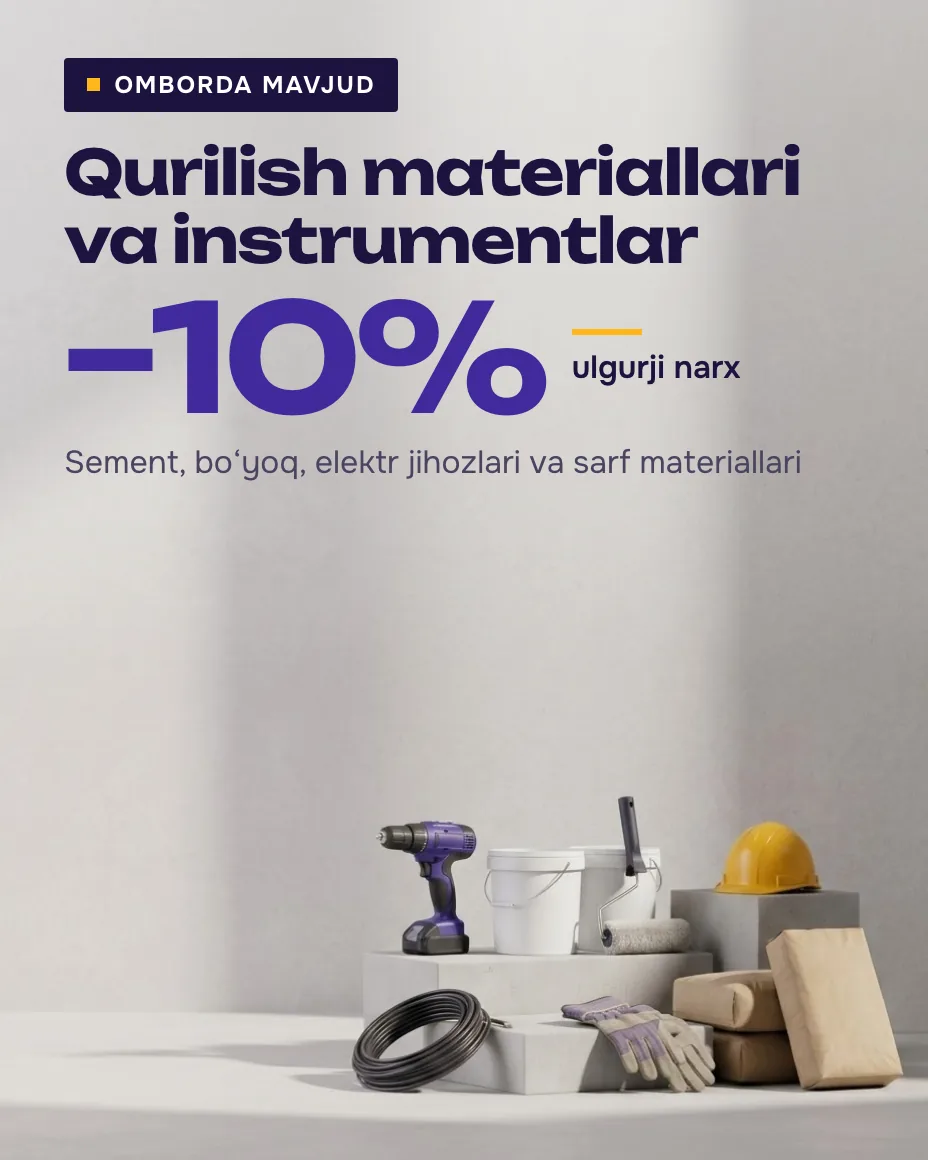
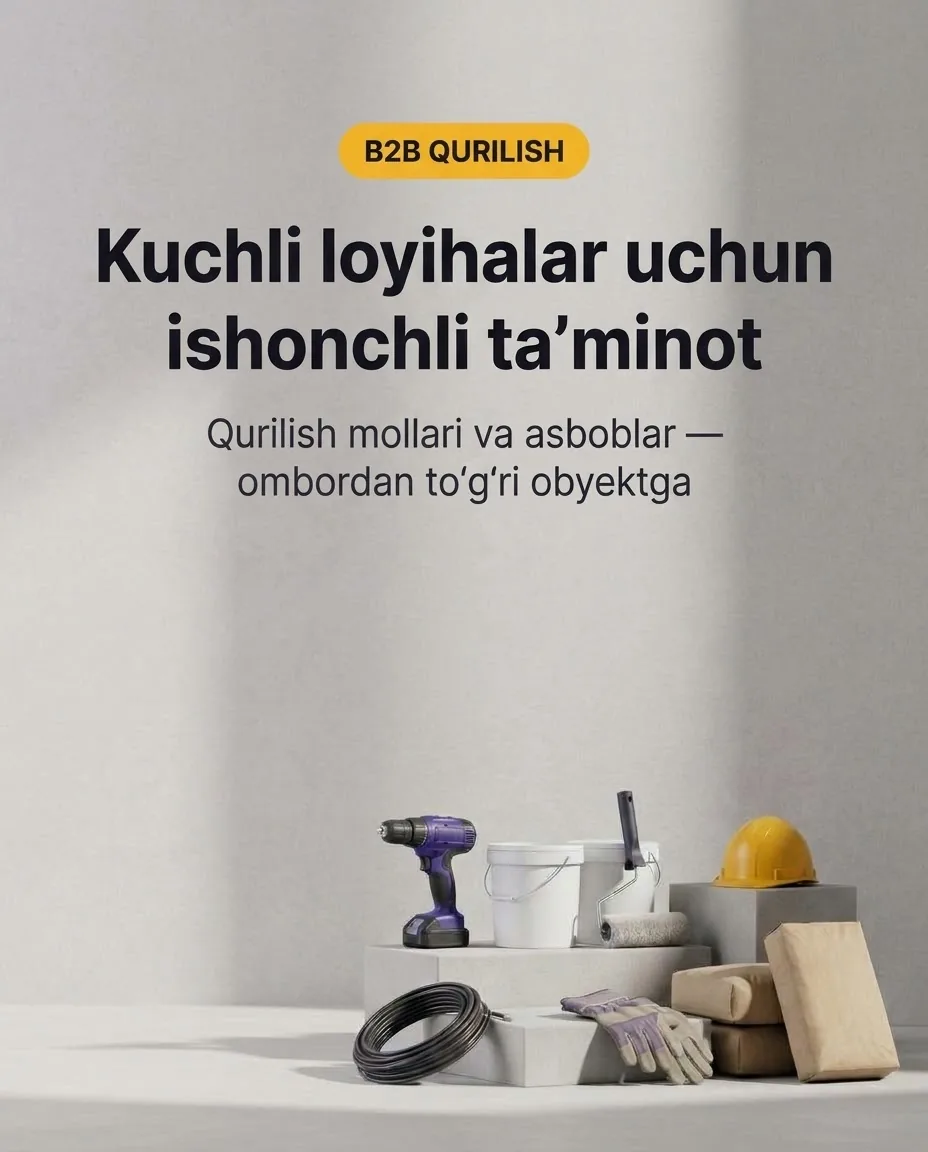
Yangi UZ bannerlar joylandi, Yangi yil slaydiga hilpiraydigan lenta qo'shildi

diff --git a/index.html b/index.html
@@ -640,6 +640,8 @@ header.hd{box-shadow:0 1px 0 var(--border-subtle)}
 .promo-cta{position:absolute;left:5.6%;bottom:13.4%;display:inline-flex;align-items:center;padding:.72em 1.3em;border-radius:12px;background:#FFB71B;color:#161324;font-weight:700;font-size:clamp(13px,1.5cqw,19px);line-height:1.2;text-decoration:none;box-shadow:0 8px 20px -8px rgba(0,0,0,.45);transition:transform .2s,box-shadow .2s,background .2s}
 .promo-cta:hover{background:#FFC444;transform:translateY(-2px);box-shadow:0 12px 24px -10px rgba(0,0,0,.55)}
 .promo-cta:focus-visible{outline:3px solid #fff;outline-offset:2px}
+/* Yangi yil slaydi: rasm ustida hilpiraydigan lenta (SVG, SMIL). Ruscha rasmda o'z yozuvi bor, shuning uchun faqat UZ da */
+.ny-ribbon{position:absolute;inset:0;width:100%;height:100%;pointer-events:none}.ny-ribbon.m{display:none}.ny-ribbon text{font-family:var(--f-display);font-weight:700;letter-spacing:2px;fill:#1C1340}html[lang="ru"] .ny-ribbon{display:none!important}
 .ps-arrow{position:absolute;top:50%;z-index:2;width:46px;height:46px;margin-top:-23px;border:0;border-radius:50%;display:grid;place-items:center;background:rgba(255,255,255,.92);color:#161324;box-shadow:0 6px 18px -6px rgba(22,19,36,.35);cursor:pointer;transition:transform .2s,background .2s}
 .ps-arrow svg{width:20px;height:20px;fill:none;stroke:currentColor;stroke-width:2.4;stroke-linecap:round;stroke-linejoin:round}
 .ps-arrow.prev{left:16px}.ps-arrow.next{right:16px}
@@ -650,7 +652,7 @@ header.hd{box-shadow:0 1px 0 var(--border-subtle)}
 .ps-dots button[aria-current="true"]{width:22px;background:#412A9D}
 @media (hover:none){.ps-arrow{display:none}}
 @media (max-width:980px){.hh{gap:26px}.hh-l{display:block}.hh .ctas{margin-top:24px;justify-content:flex-start}.hh-points{justify-content:flex-start}}
-@media (max-width:640px){.hx-hero{padding:16px 0 16px}.promo-slider{aspect-ratio:4/5}.promo-cta{left:var(--ml,14.5%);top:var(--mt,47%);bottom:auto;padding:7px 13px;font-size:12.5px;border-radius:10px}.hh .ctas .btn{flex:1 1 100%}}
+@media (max-width:640px){.hx-hero{padding:16px 0 16px}.promo-slider{aspect-ratio:4/5}.promo-cta{left:var(--ml,0);right:var(--mr,0);top:var(--mt,47%);bottom:auto;width:max-content;margin-inline:auto;padding:7px 13px;font-size:12.5px;border-radius:10px}html[lang="ru"] .promo-cta{left:6.9%;right:auto;margin:0;top:48.6%}html[lang="ru"] .ps-slide[data-n="3"] .promo-cta{top:44.8%}.ny-ribbon.d{display:none}.ny-ribbon.m{display:block}.hh .ctas .btn{flex:1 1 100%}}
 
 /* ---------- Hamkorlar va KPI ---------- */
 .proof{padding:24px 0 56px}
@@ -960,20 +962,22 @@ input[type=file]::file-selector-button{font-family:var(--f-body);font-weight:700
       <div class="hh-r">
         <div class="promo-slider" id="promo" aria-roledescription="carousel" aria-label="Aksiyalar" data-i18n-aria="ps_label">
           <div class="ps-track">
-          <div class="ps-slide" data-n="4" role="group" aria-roledescription="slide" style="--mt:48.6%;--ml:6.9%">
-            <picture><source media="(max-width:640px)" srcset="img/promo-4-uz-m.webp" width="928" height="1160"><img src="img/promo-4-uz.webp" alt="Yangi yil aksiyasi: barcha mahsulotlarga -10%, butun katalogga." width="1568" height="672" draggable="false" fetchpriority="high"></picture>
+          <div class="ps-slide" data-n="4" role="group" aria-roledescription="slide" style="--mt:38.5%;--ml:9.9%;--mr:auto">
+            <picture><source media="(max-width:640px)" srcset="img/promo-4-uz-m.webp" width="928" height="1152"><img src="img/promo-4-uz.webp" alt="Yangi yilni yangi zaxira bilan boshlang: barcha mahsulotlarga 10% chegirma." width="1584" height="672" draggable="false" fetchpriority="high"></picture>
+            <svg class="ny-ribbon d" viewBox="0 0 1584 672" preserveAspectRatio="xMidYMid slice" aria-hidden="true"><path d="M-60 58 C 220 18, 440 104, 760 56 S 1240 16, 1644 70" transform="translate(0 7)" fill="none" stroke="#A8740A" stroke-width="54" opacity=".6"><animate attributeName="d" dur="6s" repeatCount="indefinite" calcMode="spline" keySplines=".45 0 .55 1;.45 0 .55 1" values="M-60 58 C 220 18, 440 104, 760 56 S 1240 16, 1644 70;M-60 48 C 220 100, 440 20, 760 66 S 1240 104, 1644 50;M-60 58 C 220 18, 440 104, 760 56 S 1240 16, 1644 70"/></path><path id="nyr-d" d="M-60 58 C 220 18, 440 104, 760 56 S 1240 16, 1644 70" fill="none" stroke="#FFB71B" stroke-width="54"><animate attributeName="d" dur="6s" repeatCount="indefinite" calcMode="spline" keySplines=".45 0 .55 1;.45 0 .55 1" values="M-60 58 C 220 18, 440 104, 760 56 S 1240 16, 1644 70;M-60 48 C 220 100, 440 20, 760 66 S 1240 104, 1644 50;M-60 58 C 220 18, 440 104, 760 56 S 1240 16, 1644 70"/></path><text font-size="24" dominant-baseline="central"><textPath href="#nyr-d">YANGI YIL AKSIYASI • YANGI YIL AKSIYASI • YANGI YIL AKSIYASI • YANGI YIL AKSIYASI • YANGI YIL AKSIYASI • YANGI YIL AKSIYASI • YANGI YIL AKSIYASI •</textPath></text></svg>
+            <svg class="ny-ribbon m" viewBox="0 0 928 1152" preserveAspectRatio="xMidYMid slice" aria-hidden="true"><path d="M-50 62 C 140 30, 300 100, 480 58 S 760 26, 980 70" transform="translate(0 7)" fill="none" stroke="#A8740A" stroke-width="64" opacity=".6"><animate attributeName="d" dur="6s" repeatCount="indefinite" calcMode="spline" keySplines=".45 0 .55 1;.45 0 .55 1" values="M-50 62 C 140 30, 300 100, 480 58 S 760 26, 980 70;M-50 52 C 140 96, 300 28, 480 68 S 760 100, 980 50;M-50 62 C 140 30, 300 100, 480 58 S 760 26, 980 70"/></path><path id="nyr-m" d="M-50 62 C 140 30, 300 100, 480 58 S 760 26, 980 70" fill="none" stroke="#FFB71B" stroke-width="64"><animate attributeName="d" dur="6s" repeatCount="indefinite" calcMode="spline" keySplines=".45 0 .55 1;.45 0 .55 1" values="M-50 62 C 140 30, 300 100, 480 58 S 760 26, 980 70;M-50 52 C 140 96, 300 28, 480 68 S 760 100, 980 50;M-50 62 C 140 30, 300 100, 480 58 S 760 26, 980 70"/></path><text font-size="30" dominant-baseline="central"><textPath href="#nyr-m">YANGI YIL AKSIYASI • YANGI YIL AKSIYASI • YANGI YIL AKSIYASI • YANGI YIL AKSIYASI •</textPath></text></svg>
             <a class="promo-cta" href="#catalog" data-dir="all" data-i18n="promo_cta">Tovarlarni ko'rish →</a>
           </div>
-          <div class="ps-slide" data-n="1" role="group" aria-roledescription="slide" style="--mt:48.6%;--ml:6.9%">
-            <picture><source media="(max-width:640px)" srcset="img/promo-1-uz-m.webp" width="928" height="1160"><img src="img/promo-1-uz.webp" alt="Maishiy kimyo va xo'jalik mollari: -12%, maxsus narx. Oy xiti." width="1568" height="672" draggable="false" decoding="async"></picture>
+          <div class="ps-slide" data-n="1" role="group" aria-roledescription="slide" style="--mt:45.5%;--ml:0;--mr:0">
+            <picture><source media="(max-width:640px)" srcset="img/promo-1-uz-m.webp" width="928" height="1152"><img src="img/promo-1-uz.webp" alt="Ulgurji ta'minot: mukammal tozalik, ulgurji narxlarda. Ofis va biznesingiz uchun maishiy kimyo bir manbadan." width="1584" height="672" draggable="false" decoding="async"></picture>
             <a class="promo-cta" href="#catalog" data-dir="chem" data-i18n="promo_cta">Tovarlarni ko'rish →</a>
           </div>
-          <div class="ps-slide" data-n="2" role="group" aria-roledescription="slide" style="--mt:48.6%;--ml:6.9%">
-            <picture><source media="(max-width:640px)" srcset="img/promo-2-uz-m.webp" width="928" height="1160"><img src="img/promo-2-uz.webp" alt="Qurilish materiallari va instrumentlar: -10%, ulgurji narx. Omborda mavjud." width="1568" height="672" draggable="false" decoding="async"></picture>
+          <div class="ps-slide" data-n="2" role="group" aria-roledescription="slide" style="--mt:46%;--ml:0;--mr:0">
+            <picture><source media="(max-width:640px)" srcset="img/promo-2-uz-m.webp" width="928" height="1152"><img src="img/promo-2-uz.webp" alt="B2B qurilish: kuchli loyihalar uchun ishonchli ta'minot. Qurilish mollari va asboblar ombordan to'g'ri obyektga." width="1584" height="672" draggable="false" decoding="async"></picture>
             <a class="promo-cta" href="#catalog" data-dir="tools" data-i18n="promo_cta">Tovarlarni ko'rish →</a>
           </div>
-          <div class="ps-slide" data-n="3" role="group" aria-roledescription="slide" style="--mt:44.8%;--ml:6.9%">
-            <picture><source media="(max-width:640px)" srcset="img/promo-3-uz-m.webp" width="928" height="1160"><img src="img/promo-3-uz.webp" alt="Toshkent bo'ylab yetkazib berish: 24 soat ichida, bepul. QQS 12%, UzRTSB birja." width="1568" height="672" draggable="false" decoding="async"></picture>
+          <div class="ps-slide" data-n="3" role="group" aria-roledescription="slide" style="--mt:42.5%;--ml:0;--mr:0">
+            <picture><source media="(max-width:640px)" srcset="img/promo-3-uz-m.webp" width="928" height="1152"><img src="img/promo-3-uz.webp" alt="QQS 12%, birja: bugun buyurtma, 24 soatda eshikda. Bepul yetkazib berish va to'liq rasmiy hujjatlar." width="1584" height="672" draggable="false" decoding="async"></picture>
             <a class="promo-cta" href="#request" data-i18n="promo_cta3">Buyurtma berish →</a>
           </div>
           </div>
@@ -1410,7 +1414,7 @@ toast:"Добавлено в список",theme_dark:"Тёмная тема",th
 };
 
 /* ---------- redizayn matnlari ---------- */
-Object.assign(T.uz, {"nav_terms": "B2B shartlar", "price_btn": "Prays-list (XLSX)", "list": "Smeta", "list_sub": "tanlangan pozitsiyalar", "hero_badge": "QQS (NDS) • UzRTSB Birja • G'aznachilik", "hero_h1": "Korxonalar va qurilish obyektlari uchun kompleks ulgurji ta'minot", "hero_p": "1000+ nomdagi qurilish, maishiy kimyo va xo'jalik mollarini bitta shartnoma va bitta reys bilan yetkazib beramiz.", "hero_cta1": "Tijorat taklifi olish", "hero_cta2": "Katalogni ko'rish", "proof_eyebrow": "Bizga ishonishadi", "proof_title": "Yirik korxonalar ta'minotchisi", "proof_note": "Sanoat, qurilish, savdo va sport obyektlarini ta'minlaymiz.", "kpi1_t": "yil tajriba", "kpi2_t": "korxona mijozlarimiz", "kpi3_t": "SKU assortimentda", "kpi4_n": "24 soat", "kpi4_t": "ichida yetkazib berish", "view_cards": "Kartochkalar", "view_table": "B2B jadval", "th_sku": "Artikul", "th_name": "Mahsulot nomi", "th_unit": "O'lchov birligi", "th_price": "Ulgurji narx (QQS bilan)", "th_qty": "Miqdor", "price_cell": "Tijorat taklifida", "add": "+ Smetaga qo'shish", "added": "Smetada", "add_short": "+ Qo'shish", "added_short": "Qo'shildi", "toast": "Smetaga qo'shildi", "dr_empty": "Smeta hozircha bo'sh. Katalogdan pozitsiyalarni qo'shing.", "dr_sum": "Jami: {p} pozitsiya, {q} birlik", "dr_note": "Narxlar tijorat taklifida ko'rsatiladi", "go_request": "Menejerga yuborish", "sm_eyebrow": "Smeta bo'yicha hisob", "sm_h": "Smetangiz bormi? Vaqtingizni tejang: 30 daqiqada hisoblab beramiz.", "sm_p": "Faylni yuklang va telefon raqamingizni qoldiring. Menejer tijorat taklifini tayyorlab, siz bilan bog'lanadi.", "sm_drop": "Faylni shu yerga tashlang yoki", "sm_pick": "kompyuterdan tanlang", "sm_types": ".xlsx, .xls, .pdf, .docx, 10 MB gacha", "sm_phone": "Telefon raqamingiz", "sm_btn": "Tijorat taklifi olish", "sm_err_file": "Fayl tanlang: .xlsx, .xls, .pdf yoki .docx, 10 MB gacha", "sm_ok": "Rahmat! Smeta qabul qilindi, menejer tez orada siz bilan bog'lanadi.", "sm_fail": "Yuborib bo'lmadi. Iltimos, qo'ng'iroq qiling: +998 78 120 12 00", "how_eyebrow": "Ish tartibi", "how_title": "Shaffof ish jarayoni: 4 qadam", "how1_h": "Ariza yoki smeta", "how1_p": "Katalogdan smeta tuzing yoki tayyor smetangizni yuklang.", "how2_h": "30 daqiqada hisob-kitob", "how2_p": "Menejer tijorat taklifini tayyorlab yuboradi.", "how3_h": "Shartnoma va QQS hisob-faktura", "how3_p": "Shartnoma tuziladi, to'lov pul o'tkazish yo'li bilan amalga oshiriladi.", "how4_h": "Obyektga tezkor yetkazib berish", "how4_p": "Mahsulot obyektingizga to'liq hujjatlar bilan yetkaziladi.", "addr": "Toshkent, Chilonzor tumani, Lutfiy ko'chasi 6, 2-qavat", "xlsx_title": "SPEKTR STROY INVEST: prays-list", "xlsx_dir": "Yo'nalish", "xlsx_spec": "Tavsif", "promo_cta": "Tovarlarni ko'rish →", "promo_cta3": "Buyurtma berish →", "promo1_alt": "Maishiy kimyo va xo'jalik mollari: -12%, maxsus narx. Oy xiti.", "promo4_alt": "Yangi yil aksiyasi: barcha mahsulotlarga -10%, butun katalogga.", "promo2_alt": "Qurilish materiallari va instrumentlar: -10%, ulgurji narx. Omborda mavjud.", "promo3_alt": "Toshkent bo'ylab yetkazib berish: 24 soat ichida, bepul. QQS 12%, UzRTSB birja.", "ps_label": "Aksiyalar", "ps_prev": "Oldingi slayd", "ps_next": "Keyingi slayd", "ps_go": "{n}-slayd", "tg_open": "Telegramda yozish", "hand_cta": "30 daqiqada hisoblaymiz!", "hand_partners": "va yana 5 000+ korxona", "hand_smeta": "Excel, PDF yoki Word: farqi yo'q!", "open_now": "Hozir ish vaqti: qo'ng'iroq qiling", "closed_now": "Hozir ish vaqti emas: ariza qoldiring", "rq_next": "Ariza yuborganingizdan keyin", "rq_s1_h": "30 daqiqada tijorat taklifi", "rq_s1_p": "Menejer pozitsiyalarni hisoblab, narxlar bilan taklif yuboradi.", "rq_s2_h": "Shartnoma va QQS hisob-faktura", "rq_s2_p": "To'lov faqat pul o'tkazish yo'li bilan, shartnoma asosida.", "rq_s3_h": "24 soatda yetkazib berish", "rq_s3_p": "Mahsulot obyektingizga to'liq hujjatlar bilan yetkaziladi.", "rq_call_h": "Shoshilinch buyurtmami?", "rq_call_p": "Menejerga to'g'ridan-to'g'ri qo'ng'iroq qiling", "rq_b1": "QQS (NDS)", "rq_b2": "UzRTSB birja", "rq_b3": "G'aznachilik"});
+Object.assign(T.uz, {"nav_terms": "B2B shartlar", "price_btn": "Prays-list (XLSX)", "list": "Smeta", "list_sub": "tanlangan pozitsiyalar", "hero_badge": "QQS (NDS) • UzRTSB Birja • G'aznachilik", "hero_h1": "Korxonalar va qurilish obyektlari uchun kompleks ulgurji ta'minot", "hero_p": "1000+ nomdagi qurilish, maishiy kimyo va xo'jalik mollarini bitta shartnoma va bitta reys bilan yetkazib beramiz.", "hero_cta1": "Tijorat taklifi olish", "hero_cta2": "Katalogni ko'rish", "proof_eyebrow": "Bizga ishonishadi", "proof_title": "Yirik korxonalar ta'minotchisi", "proof_note": "Sanoat, qurilish, savdo va sport obyektlarini ta'minlaymiz.", "kpi1_t": "yil tajriba", "kpi2_t": "korxona mijozlarimiz", "kpi3_t": "SKU assortimentda", "kpi4_n": "24 soat", "kpi4_t": "ichida yetkazib berish", "view_cards": "Kartochkalar", "view_table": "B2B jadval", "th_sku": "Artikul", "th_name": "Mahsulot nomi", "th_unit": "O'lchov birligi", "th_price": "Ulgurji narx (QQS bilan)", "th_qty": "Miqdor", "price_cell": "Tijorat taklifida", "add": "+ Smetaga qo'shish", "added": "Smetada", "add_short": "+ Qo'shish", "added_short": "Qo'shildi", "toast": "Smetaga qo'shildi", "dr_empty": "Smeta hozircha bo'sh. Katalogdan pozitsiyalarni qo'shing.", "dr_sum": "Jami: {p} pozitsiya, {q} birlik", "dr_note": "Narxlar tijorat taklifida ko'rsatiladi", "go_request": "Menejerga yuborish", "sm_eyebrow": "Smeta bo'yicha hisob", "sm_h": "Smetangiz bormi? Vaqtingizni tejang: 30 daqiqada hisoblab beramiz.", "sm_p": "Faylni yuklang va telefon raqamingizni qoldiring. Menejer tijorat taklifini tayyorlab, siz bilan bog'lanadi.", "sm_drop": "Faylni shu yerga tashlang yoki", "sm_pick": "kompyuterdan tanlang", "sm_types": ".xlsx, .xls, .pdf, .docx, 10 MB gacha", "sm_phone": "Telefon raqamingiz", "sm_btn": "Tijorat taklifi olish", "sm_err_file": "Fayl tanlang: .xlsx, .xls, .pdf yoki .docx, 10 MB gacha", "sm_ok": "Rahmat! Smeta qabul qilindi, menejer tez orada siz bilan bog'lanadi.", "sm_fail": "Yuborib bo'lmadi. Iltimos, qo'ng'iroq qiling: +998 78 120 12 00", "how_eyebrow": "Ish tartibi", "how_title": "Shaffof ish jarayoni: 4 qadam", "how1_h": "Ariza yoki smeta", "how1_p": "Katalogdan smeta tuzing yoki tayyor smetangizni yuklang.", "how2_h": "30 daqiqada hisob-kitob", "how2_p": "Menejer tijorat taklifini tayyorlab yuboradi.", "how3_h": "Shartnoma va QQS hisob-faktura", "how3_p": "Shartnoma tuziladi, to'lov pul o'tkazish yo'li bilan amalga oshiriladi.", "how4_h": "Obyektga tezkor yetkazib berish", "how4_p": "Mahsulot obyektingizga to'liq hujjatlar bilan yetkaziladi.", "addr": "Toshkent, Chilonzor tumani, Lutfiy ko'chasi 6, 2-qavat", "xlsx_title": "SPEKTR STROY INVEST: prays-list", "xlsx_dir": "Yo'nalish", "xlsx_spec": "Tavsif", "promo_cta": "Tovarlarni ko'rish →", "promo_cta3": "Buyurtma berish →", "promo1_alt": "Ulgurji ta'minot: mukammal tozalik, ulgurji narxlarda. Ofis va biznesingiz uchun maishiy kimyo bir manbadan.", "promo4_alt": "Yangi yilni yangi zaxira bilan boshlang: barcha mahsulotlarga 10% chegirma.", "promo2_alt": "B2B qurilish: kuchli loyihalar uchun ishonchli ta'minot. Qurilish mollari va asboblar ombordan to'g'ri obyektga.", "promo3_alt": "QQS 12%, birja: bugun buyurtma, 24 soatda eshikda. Bepul yetkazib berish va to'liq rasmiy hujjatlar.", "ps_label": "Aksiyalar", "ps_prev": "Oldingi slayd", "ps_next": "Keyingi slayd", "ps_go": "{n}-slayd", "tg_open": "Telegramda yozish", "hand_cta": "30 daqiqada hisoblaymiz!", "hand_partners": "va yana 5 000+ korxona", "hand_smeta": "Excel, PDF yoki Word: farqi yo'q!", "open_now": "Hozir ish vaqti: qo'ng'iroq qiling", "closed_now": "Hozir ish vaqti emas: ariza qoldiring", "rq_next": "Ariza yuborganingizdan keyin", "rq_s1_h": "30 daqiqada tijorat taklifi", "rq_s1_p": "Menejer pozitsiyalarni hisoblab, narxlar bilan taklif yuboradi.", "rq_s2_h": "Shartnoma va QQS hisob-faktura", "rq_s2_p": "To'lov faqat pul o'tkazish yo'li bilan, shartnoma asosida.", "rq_s3_h": "24 soatda yetkazib berish", "rq_s3_p": "Mahsulot obyektingizga to'liq hujjatlar bilan yetkaziladi.", "rq_call_h": "Shoshilinch buyurtmami?", "rq_call_p": "Menejerga to'g'ridan-to'g'ri qo'ng'iroq qiling", "rq_b1": "QQS (NDS)", "rq_b2": "UzRTSB birja", "rq_b3": "G'aznachilik"});
 Object.assign(T.ru, {"nav_terms": "B2B условия", "price_btn": "Прайс-лист (XLSX)", "list": "Смета", "list_sub": "выбранные позиции", "hero_badge": "НДС • Биржа UzRTSB • Казначейство", "hero_h1": "Комплексные оптовые поставки для предприятий и строительных объектов", "hero_p": "Поставляем 1000+ наименований строительных товаров, бытовой химии и хозтоваров по одному договору и одним рейсом.", "hero_cta1": "Получить КП", "hero_cta2": "Смотреть каталог", "proof_eyebrow": "Нам доверяют", "proof_title": "Поставщик крупных предприятий", "proof_note": "Снабжаем промышленные, строительные, торговые и спортивные объекты.", "kpi1_t": "лет опыта", "kpi2_t": "предприятий-клиентов", "kpi3_t": "SKU в ассортименте", "kpi4_n": "24 часа", "kpi4_t": "срок доставки", "view_cards": "Карточки", "view_table": "B2B таблица", "th_sku": "Артикул", "th_name": "Наименование", "th_unit": "Ед. изм.", "th_price": "Оптовая цена (с НДС)", "th_qty": "Кол-во", "price_cell": "В коммерческом предложении", "add": "+ В смету", "added": "В смете", "add_short": "+ Добавить", "added_short": "Добавлено", "toast": "Добавлено в смету", "dr_empty": "Смета пока пуста. Добавьте позиции из каталога.", "dr_sum": "Итого: {p} позиций, {q} ед.", "dr_note": "Цены указываются в коммерческом предложении", "go_request": "Отправить менеджеру", "sm_eyebrow": "Расчёт по смете", "sm_h": "Есть смета? Сэкономьте время: рассчитаем за 30 минут.", "sm_p": "Загрузите файл и оставьте номер телефона. Менеджер подготовит коммерческое предложение и свяжется с вами.", "sm_drop": "Перетащите файл сюда или", "sm_pick": "выберите на компьютере", "sm_types": ".xlsx, .xls, .pdf, .docx, до 10 МБ", "sm_phone": "Ваш телефон", "sm_btn": "Получить КП", "sm_err_file": "Выберите файл: .xlsx, .xls, .pdf или .docx, до 10 МБ", "sm_ok": "Спасибо! Смета получена, менеджер скоро свяжется с вами.", "sm_fail": "Не удалось отправить. Пожалуйста, позвоните: +998 78 120 12 00", "how_eyebrow": "Порядок работы", "how_title": "Прозрачный процесс: 4 шага", "how1_h": "Заявка или смета", "how1_p": "Соберите смету в каталоге или загрузите готовую.", "how2_h": "Расчёт за 30 минут", "how2_p": "Менеджер подготовит и отправит коммерческое предложение.", "how3_h": "Договор и счёт-фактура с НДС", "how3_p": "Заключаем договор, оплата производится перечислением.", "how4_h": "Быстрая доставка на объект", "how4_p": "Доставляем на объект с полным пакетом документов.", "addr": "Ташкент, Чиланзарский район, ул. Лутфий 6, 2-й этаж", "xlsx_title": "SPEKTR STROY INVEST: прайс-лист", "xlsx_dir": "Направление", "xlsx_spec": "Описание", "promo_cta": "Смотреть товары →", "promo_cta3": "Оформить заказ →", "promo1_alt": "Бытовая химия и хозтовары: -12%, специальная цена. Хит месяца.", "promo4_alt": "Новогодняя акция: -10% на все товары, на весь каталог.", "promo2_alt": "Стройматериалы и инструменты: -10%, оптовая цена. В наличии на складе.", "promo3_alt": "Доставка по всему Ташкенту: 24 часа, бесплатно. НДС 12%, биржа UzRTSB.", "ps_label": "Акции", "ps_prev": "Предыдущий слайд", "ps_next": "Следующий слайд", "ps_go": "Слайд {n}", "tg_open": "Написать в Telegram", "hand_cta": "Рассчитаем за 30 минут!", "hand_partners": "и ещё 5 000+ компаний", "hand_smeta": "Excel, PDF или Word: без разницы!", "open_now": "Сейчас рабочее время: звоните", "closed_now": "Сейчас нерабочее время: оставьте заявку", "rq_next": "После отправки заявки", "rq_s1_h": "КП за 30 минут", "rq_s1_p": "Менеджер рассчитает позиции и пришлёт предложение с ценами.", "rq_s2_h": "Договор и счёт-фактура с НДС", "rq_s2_p": "Оплата только перечислением, на основании договора.", "rq_s3_h": "Доставка за 24 часа", "rq_s3_p": "Доставим на объект с полным пакетом документов.", "rq_call_h": "Срочный заказ?", "rq_call_p": "Позвоните менеджеру напрямую", "rq_b1": "НДС", "rq_b2": "Биржа UzRTSB", "rq_b3": "Казначейство"});
 
 /* ---------- state ---------- */
@@ -1573,6 +1577,7 @@ function setDir(d, scroll){ dir = d; shown = 0; renderTabs(); const on = $('#tab
   const root = $("#promo"); if (!root) return;
   const track = root.querySelector(".ps-track"), slides = [...track.children], dots = root.querySelector(".ps-dots"), N = slides.length;
   const still = matchMedia("(prefers-reduced-motion: reduce)").matches;
+  if (still) root.querySelectorAll("svg.ny-ribbon").forEach(v => v.pauseAnimations && v.pauseAnimations());
   // Tasma: [3-klon] 1 2 3 [1-klon]. Oxirgidan keyin 1-klonga silliq o'tadi, so'ng sezdirmasdan haqiqiy 1-ga sakraydi.
   const mkClone = sl => { const c = sl.cloneNode(true); c.classList.add("ps-clone"); c.setAttribute("aria-hidden", "true"); c.querySelector("a").tabIndex = -1; c.querySelector("img").removeAttribute("fetchpriority"); return c; };
   track.insertBefore(mkClone(slides[N - 1]), slides[0]); track.appendChild(mkClone(slides[0]));

diff --git a/CLAUDE.md b/CLAUDE.md
@@ -30,8 +30,8 @@ logo.svg, logo-s.svg           Vektor logotip va "S" belgisi (index.html ichiga 
 img/catalog/SP-001..112.jpg    Katalog rasmlari, fayl nomi = mahsulot kodi
 img/hero/hero-1..3.webp        Bosh sahifa bannerlari (2400 px); hero-N-m.webp: telefon uchun kesilgan varianti
 img/dirs/<kalit>.webp          Yo'nalish kartalari fotosi (640x1147, 9:16), kalit = DIRS kaliti
-img/promo-N-uz|ru.webp         Hero promo-slayderi, N = 1..4 (21:9, 1568x672); promo-N-uz|ru-m.webp: telefon (4:5, 928x1160). Matn rasmning o'zida, tugma HTML. Slayd tartibi: 4 (Yangi yil), 1, 2, 3. Telefonda tugma joyi slaydning --mt/--ml o'zgaruvchisida
-tools/banner/                  Banner yasash: banner.html (shablon va UZ/RU matnlar, BANNERS), bg/N-d|m.jpg (Gemini fonlari, yozuvsiz), render.py (Chrome + Pillow, img/promo-* ni yozadi va telefon uchun --mt/--ml ni chiqaradi). Aksiya o'zgarsa: matnni BANNERS da tuzating, kerak bo'lsa fonni almashtiring, `python3 tools/banner/render.py N`
+img/promo-N-uz|ru.webp         Hero promo-slayderi, N = 1..4. UZ (2026-11-25): foydalanuvchi tayyorlagan rasmlar, kompyuter 1584x672, telefon 928x1152, telefonda matn markazda (4-slayd chapda). RU: hali eski shablondan (1568x672, 928x1160). Matn rasmning o'zida, tugma HTML. Slayd tartibi: 4 (Yangi yil), 1, 2, 3. Telefonda tugma joyi slaydning --mt/--ml/--mr o'zgaruvchisida (UZ uchun); RU uchun CSS'da html[lang="ru"] .promo-cta. 4-slaydda hilpiraydigan lenta: .ny-ribbon (SVG + SMIL, faqat UZ)
+tools/banner/                  Banner yasash: banner.html (shablon va UZ/RU matnlar, BANNERS), bg/N-d|m.jpg (Gemini fonlari, yozuvsiz), render.py (Chrome + Pillow, img/promo-* ni yozadi va telefon uchun --mt/--ml ni chiqaradi). Aksiya o'zgarsa: matnni BANNERS da tuzating, kerak bo'lsa fonni almashtiring, `python3 tools/banner/render.py N`. Hozir faqat RU bannerlar shu shablondan; UZ bannerlar tashqarida tayyorlanadi
 fonts/*.woff2                  Unbounded, Onest (variable) va Caveat (700, qisqartirilgan): lotin + kirill. @font-face index.html <style> boshida
 img/partners/*.webp, havas.svg  Hamkorlar logotiplari (balandligi 120 px, shaffof fon). Lentada monoxrom, hover'da asl rang. `PARTNERS` da oq logotip uchun `invert` ("alpha" yoki "bg"), ochiq rangli uchun `tone:"light"`
 supabase/schema.sql            profiles, orders jadvallari, RLS, ro'yxatdan o'tish trigger'i
